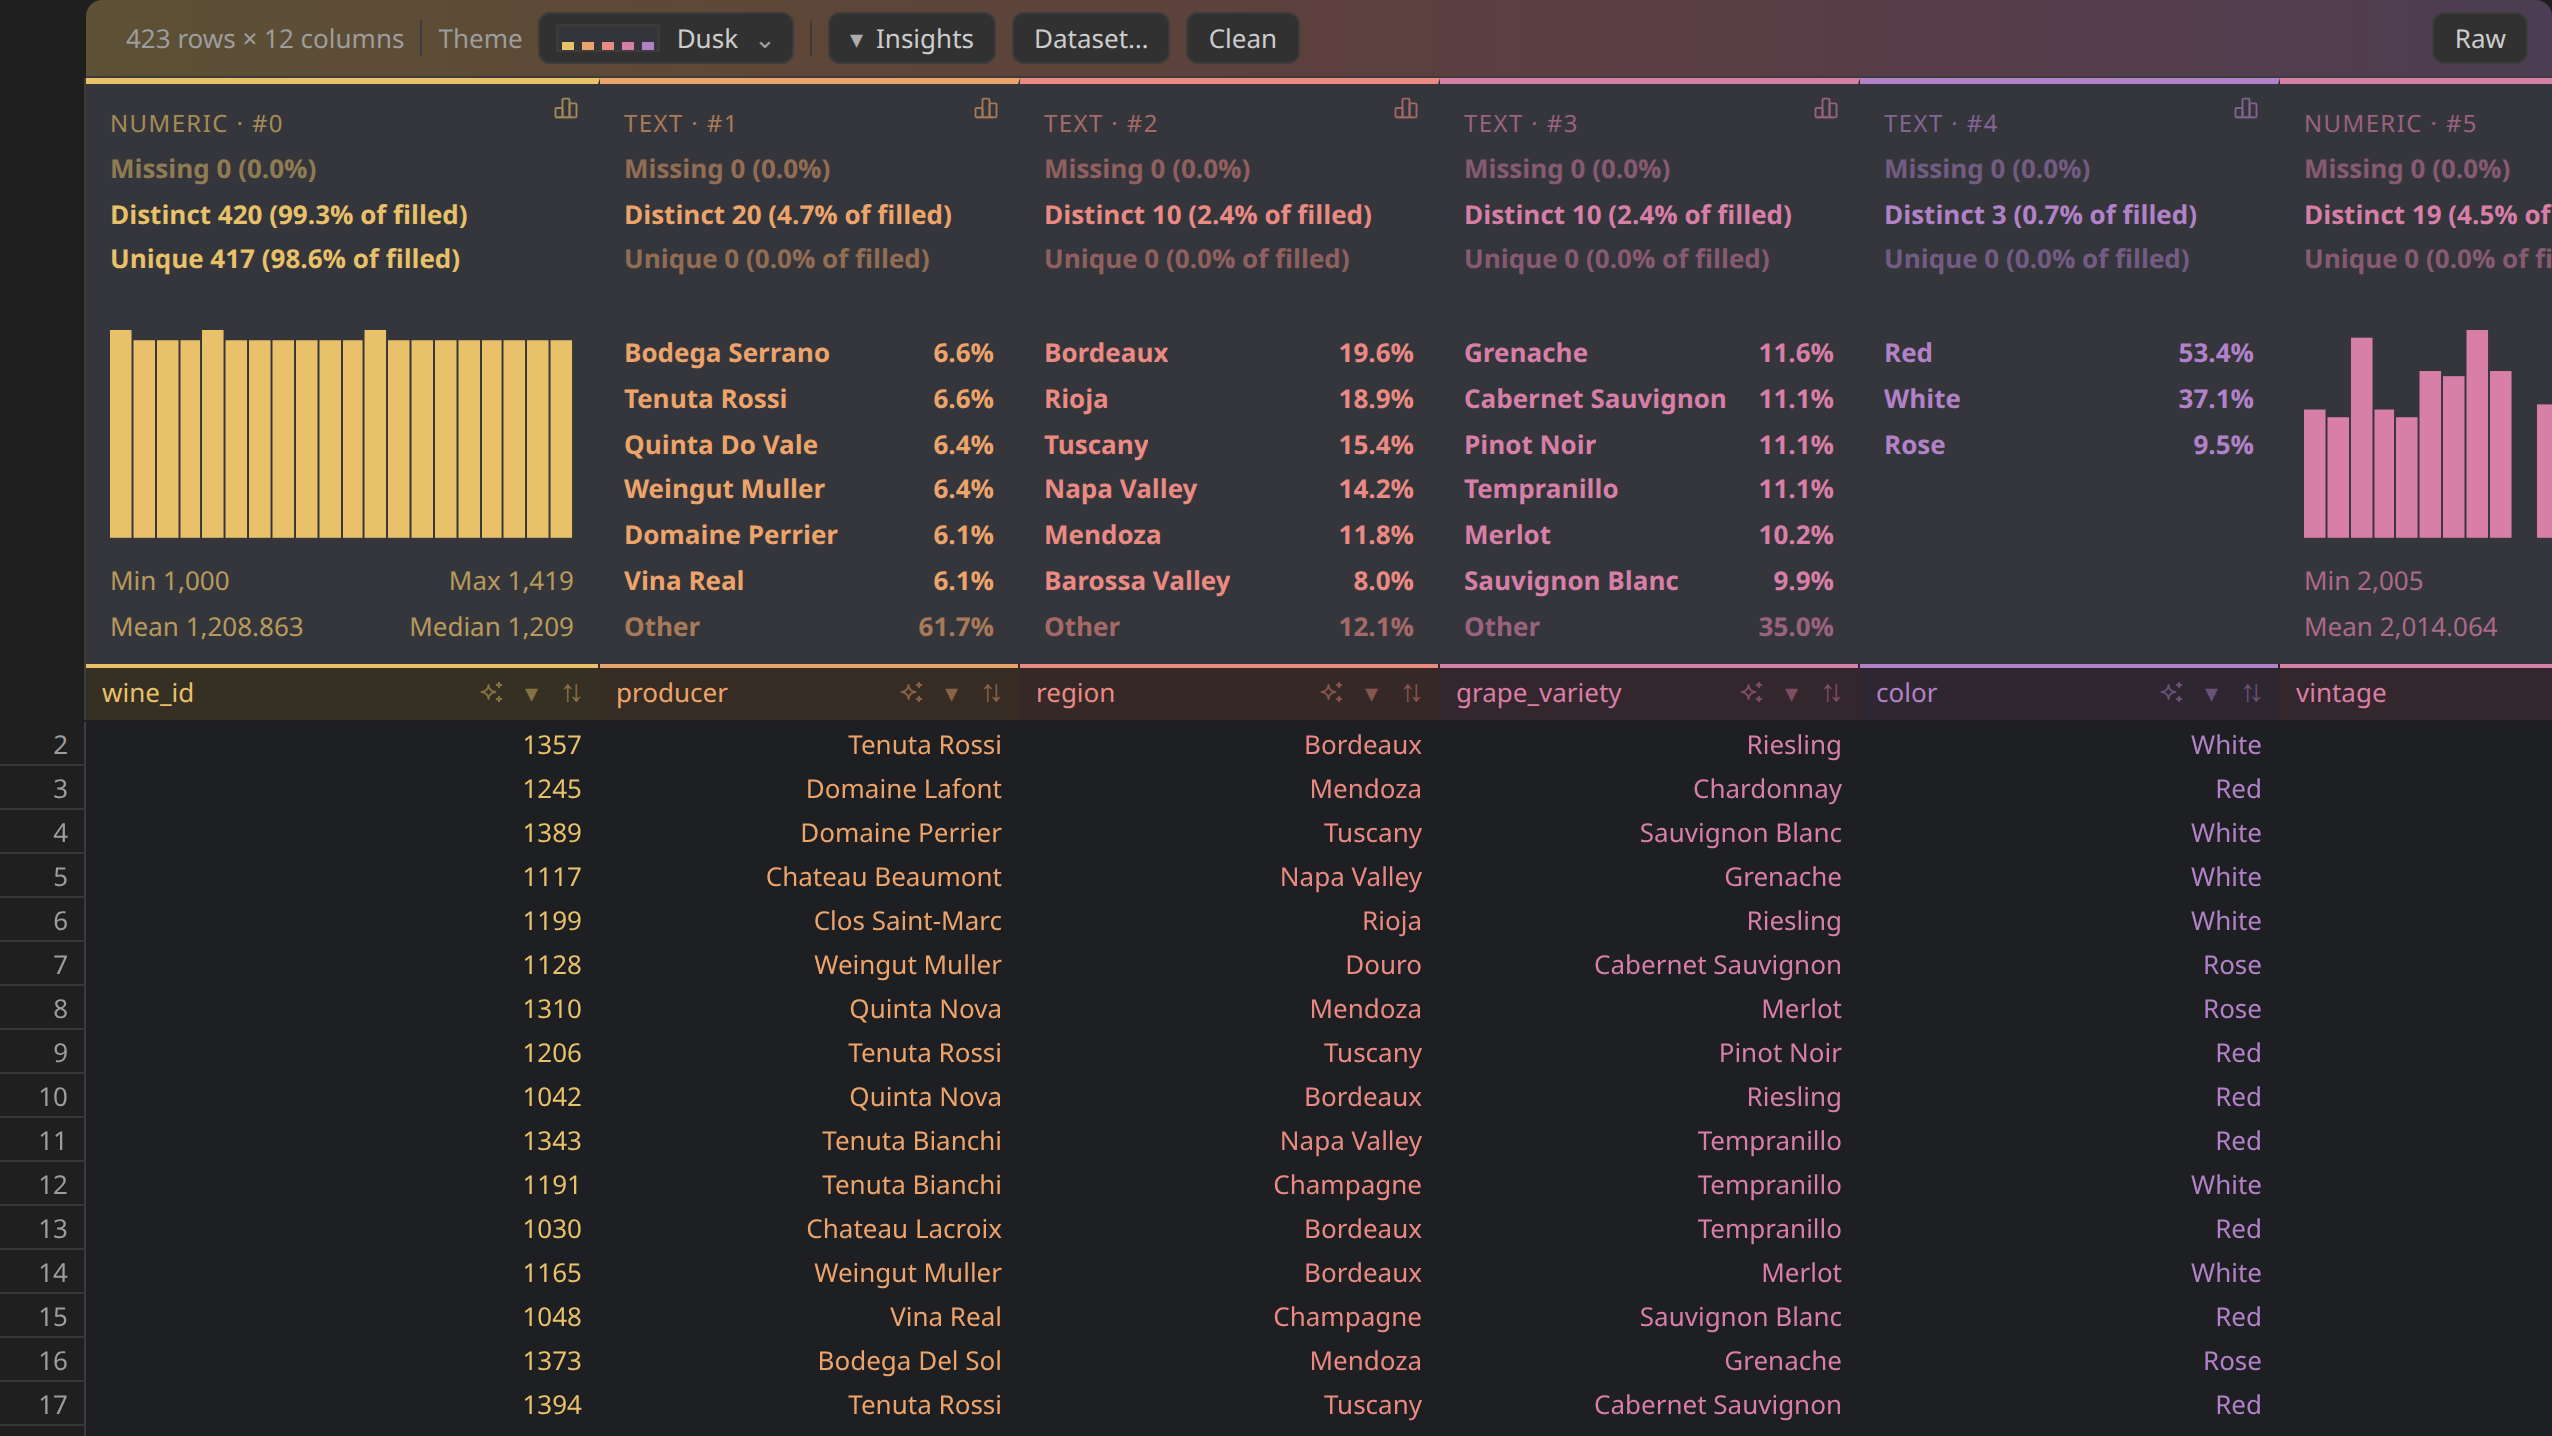
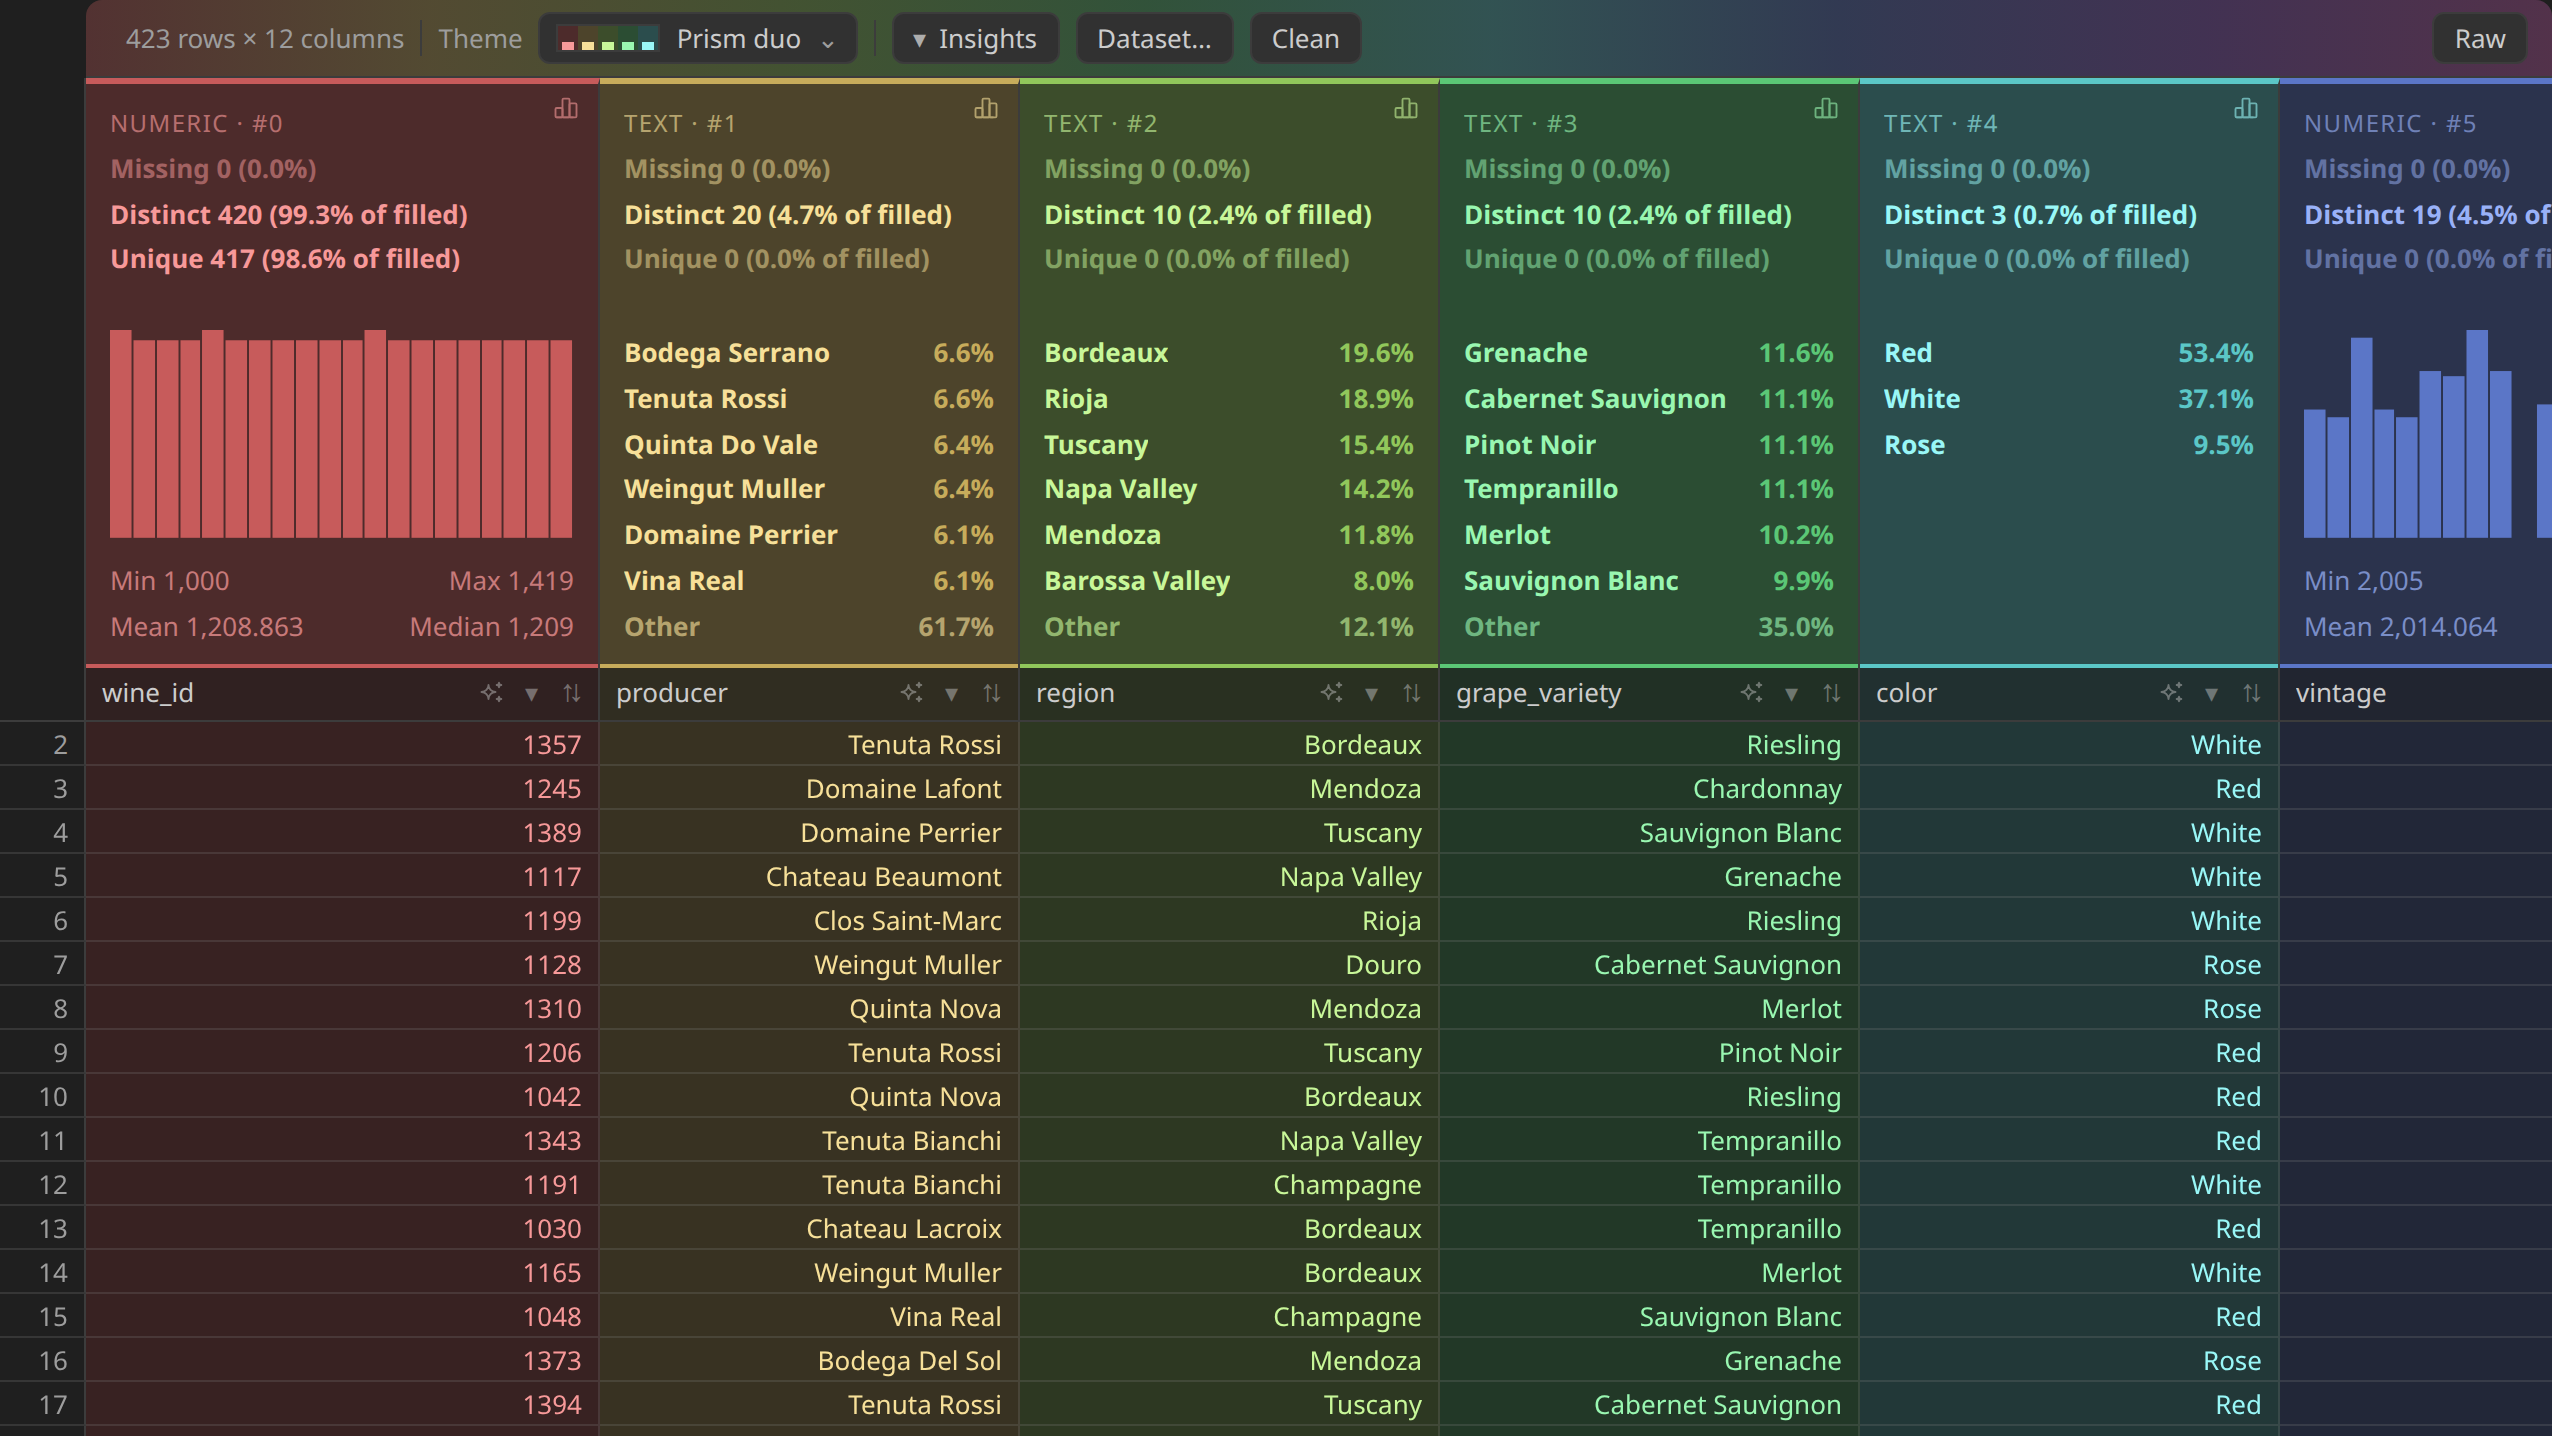
0.30.2 : première image en Prism duo, refaite avec la version actuelle

diff --git a/tests/integration/screenshots.spec.ts b/tests/integration/screenshots.spec.ts
@@ -19,7 +19,7 @@ const shot = async (page: Page, name: string) => {
 };
 
 test('band', async ({ page }) => {
-  await openHarness(page, 'samples/wines.csv', 'dusk');
+  await openHarness(page, 'samples/wines.csv', 'prism-duo');
   await shot(page, 'band');
 });
 

diff --git a/README.md b/README.md
@@ -7,7 +7,7 @@ separator, decimal comma, missing-value tokens, dates.
 
 Right-click a `.csv` file in the explorer → **Open in CSV Stats**.
 
-![The stats band over a 423-row wine dataset, Dusk palette (each column header takes its column's colour): a seven-line ranking with Other on the region column, a three-line ranking with no Other on color, and histograms flush with the band's bottom edge](https://raw.githubusercontent.com/gcapellib/vscode-csv-stats/main/media/screenshot-band.png)
+![The stats band over a 423-row wine dataset, Prism duo palette: a seven-line ranking with Other on the region column, a three-line ranking with no Other on color, and histograms flush with the band's bottom edge](https://raw.githubusercontent.com/gcapellib/vscode-csv-stats/main/media/screenshot-band.png)
 
 *A band above every column: type, missing, distinct and unique values, then a histogram or the most frequent values.*
 

diff --git a/CHANGELOG.md b/CHANGELOG.md
@@ -2,6 +2,11 @@
 
 Newest first.
 
+## 0.30.2
+
+- **Docs:** the first screenshot is the Prism duo palette again, redone with the current
+  version. The package no longer carries `scripts/` and `.claude/`.
+
 ## 0.30.1
 
 - **Fixed:** the `pd.read_csv` in *Dataset…* now carries `encoding="cp1252"` (or `"utf-16"`)
